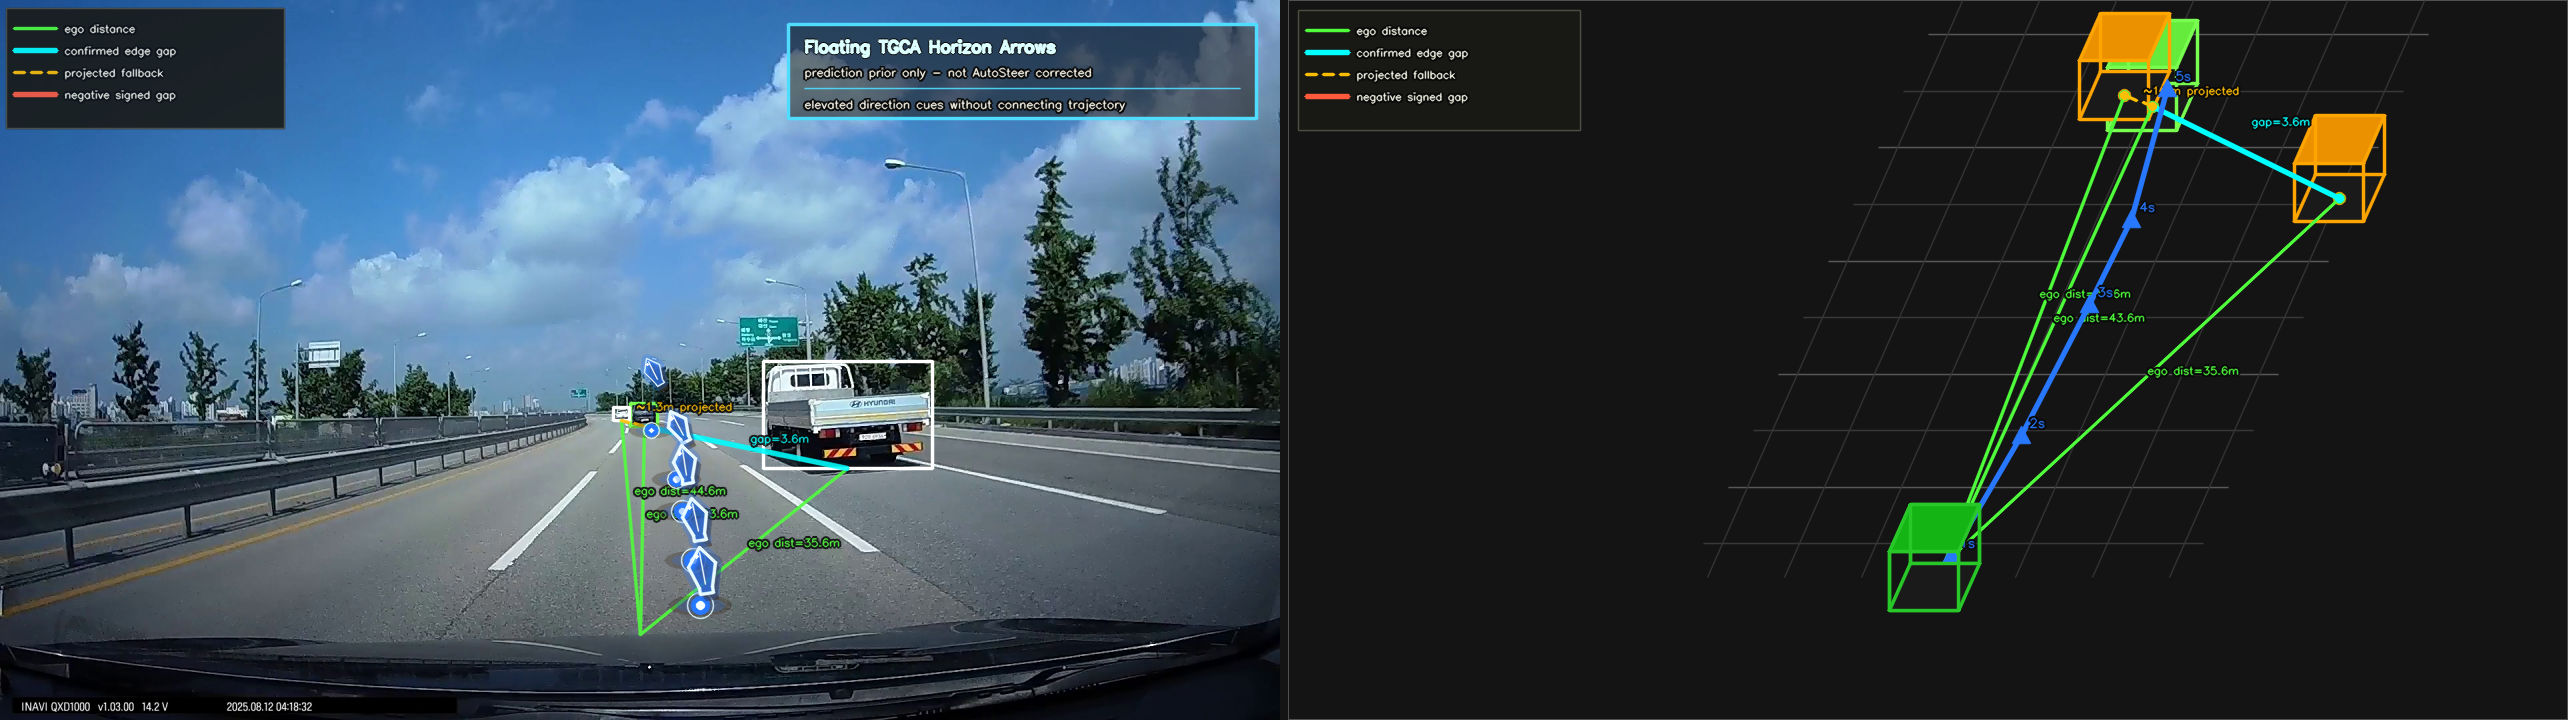
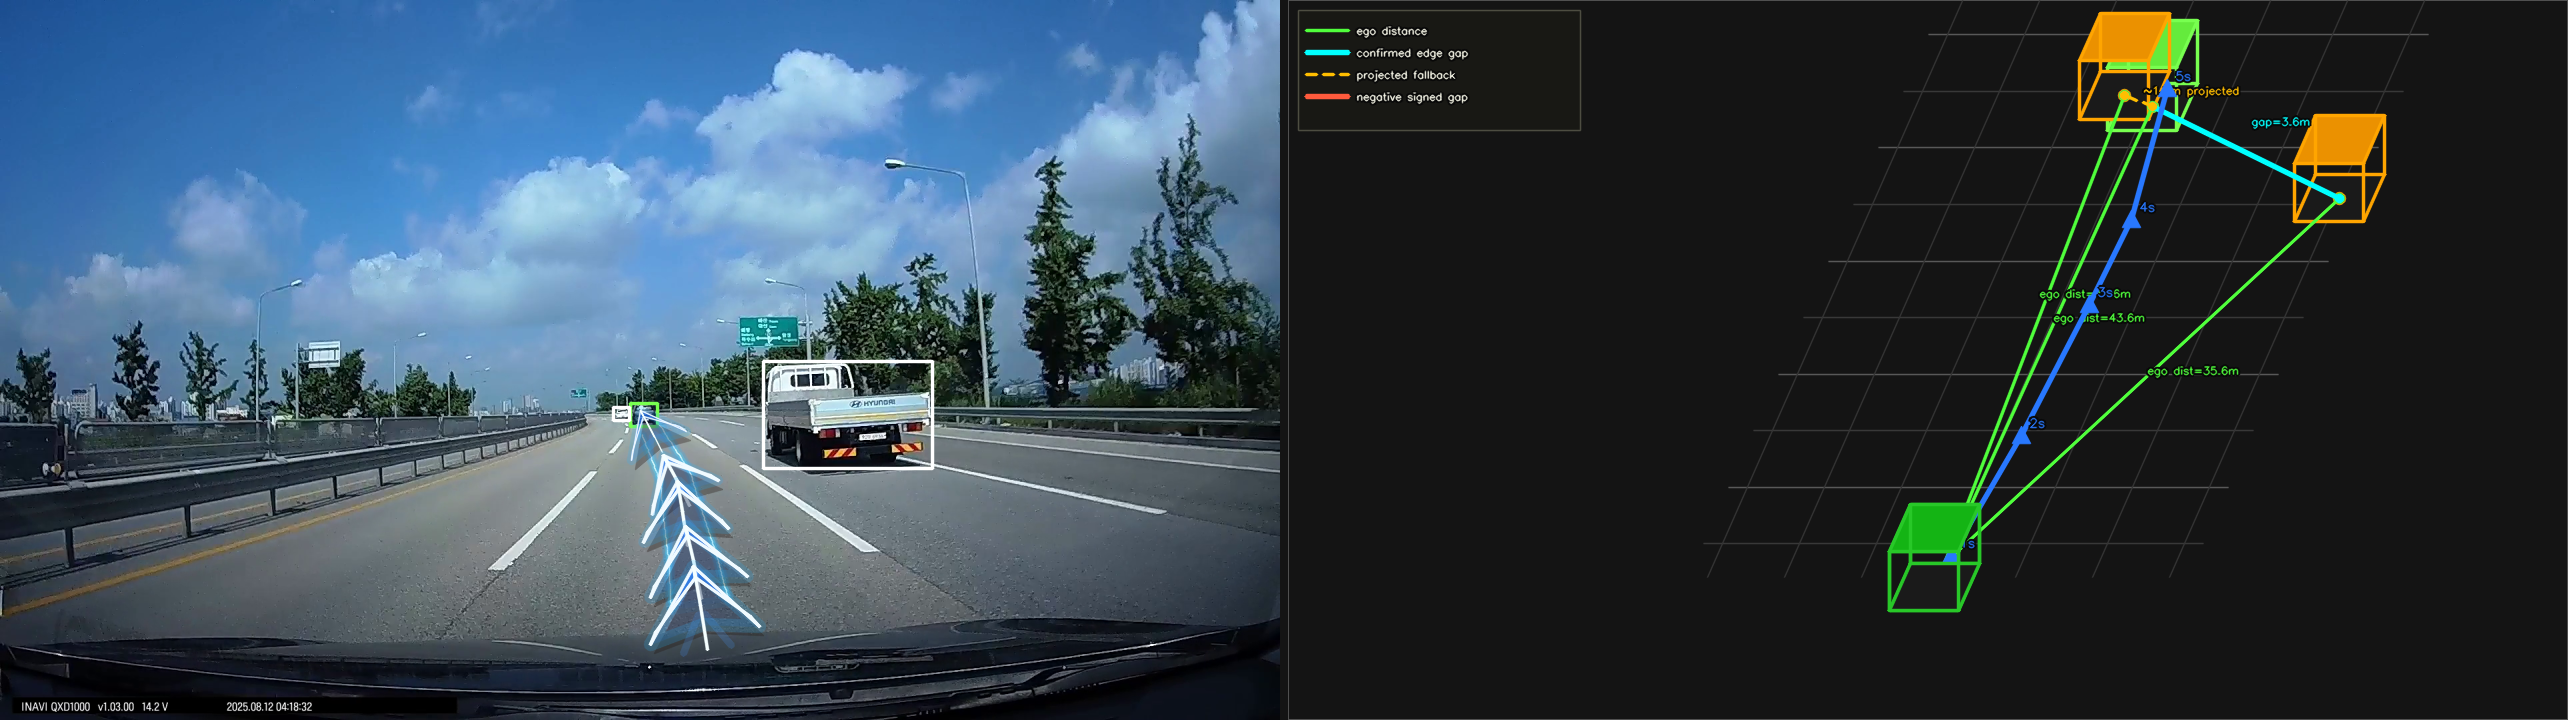
Add lane context stage and tighten demo copy

diff --git a/index.html b/index.html
@@ -12,29 +12,25 @@
       <nav class="nav" aria-label="섹션 이동">
         <a href="#stage-1">원본</a>
         <a href="#stage-2">객체 탐지</a>
-        <a href="#stage-3">Edge + 3D</a>
-        <a href="#stage-4">TGCA Path</a>
-        <a href="#stage-5">5초 Horizon</a>
+        <a href="#stage-3">Lane</a>
+        <a href="#stage-4">Edge + 3D</a>
+        <a href="#stage-5">TGCA</a>
+        <a href="#stage-6">HUD</a>
       </nav>
 
       <div class="hero-overlay">
         <div class="hero-copy">
           <h1>전방 객체 맥락에서 TGCA ego trajectory prior까지</h1>
-          <p class="lead">
-            단안 dashcam 프레임이 차량 탐지, ego distance와 bbox gap edge, pseudo-3D 맥락,
-            TGCA 기반 raw prediction trajectory와 1s-5s horizon prior로 변환되는 과정을 보여줍니다.
-          </p>
+          <p class="lead">차량 탐지, lane context, relation graph, TGCA horizon prior를 단계별로 보여줍니다.</p>
           <div class="hero-badges" aria-label="pipeline summary">
             <span>Monocular input</span>
             <span>Vehicle detection</span>
+            <span>Lane context</span>
             <span>Gap edges</span>
             <span>Pseudo-3D</span>
             <span>TGCA prior</span>
           </div>
-          <div class="claim-note">
-            시각화 수준의 결과 · ego distance/gap은 pseudo-metric 추정 · TGCA trajectory는 control command,
-            driving decision, ground-truth future가 아닌 prior
-          </div>
+          <div class="claim-note">거리와 궤적은 시각화 prior이며, 제어 명령이나 정답 label이 아닙니다.</div>
           <button
             class="hero-zoom image-button"
             type="button"
@@ -59,42 +55,42 @@
           </article>
           <article>
             <strong>Graph</strong>
-            <span>ego-to-vehicle distance / confirmed edge gap / projected fallback 구성</span>
+            <span>ego distance / confirmed edge gap / fallback distance</span>
           </article>
           <article>
-            <strong>Scene</strong>
-            <span>추정 거리와 pseudo-3D 장면 표현</span>
+            <strong>Lane</strong>
+            <span>ego lane 차량 여부와 LC 후보 판단</span>
           </article>
           <article>
             <strong>Output</strong>
-            <span>TGCA 기반 raw prediction trajectory와 1s-5s horizon prior</span>
+            <span>TGCA horizon prior와 HUD overlay</span>
           </article>
         </div>
       </section>
 
       <section class="legend-panel" aria-labelledby="legend-title">
         <p class="section-kicker">Visualization Legend</p>
-        <h2 id="legend-title">relation edge와 TGCA trajectory를 분리해서 읽기</h2>
+        <h2 id="legend-title">색상 의미 요약</h2>
         <div class="legend-grid">
           <article>
             <h3>Relation graph</h3>
             <ul class="legend compact">
-              <li><span class="swatch green"></span>Green solid: ego-to-vehicle distance</li>
-              <li><span class="swatch cyan"></span>Cyan solid: confirmed vehicle-to-vehicle edge gap</li>
-              <li><span class="swatch yellow"></span>Amber dashed: projected bottom-center fallback distance</li>
+              <li><span class="swatch green"></span>Green solid: ego distance</li>
+              <li><span class="swatch cyan"></span>Cyan solid: confirmed edge gap</li>
+              <li><span class="swatch yellow"></span>Amber dashed: projected fallback distance</li>
               <li><span class="swatch red"></span>Red: negative signed gap</li>
             </ul>
           </article>
           <article>
             <h3>Trajectory</h3>
             <ul class="legend compact">
-              <li><span class="swatch blue"></span>Blue arrow/marker: Raw TGCA prediction trajectory</li>
-              <li><span class="swatch blue"></span>1s-5s labels: prediction horizon markers</li>
+              <li><span class="swatch blue"></span>Blue marker: Raw TGCA prediction</li>
+              <li><span class="swatch blue"></span>1s-5s: prediction horizon</li>
             </ul>
           </article>
           <article>
             <h3>Caution</h3>
-            <p>Distances are pseudo-metric visualization cues. TGCA trajectory is a prior, not ground-truth future, planner output, or control command.</p>
+            <p>All distances and trajectories are priors, not GT or control.</p>
           </article>
         </div>
       </section>
@@ -103,7 +99,7 @@
         <div class="stage-copy">
           <span class="stage-number">01</span>
           <h2>원본 이미지</h2>
-          <p>perception 또는 graph 구성이 적용되기 전의 단안 dashcam 입력 장면입니다.</p>
+          <p>bbox, edge, trajectory가 없는 입력 frame입니다.</p>
         </div>
         <figure class="visual-card">
           <button
@@ -120,15 +116,15 @@
               height="720"
             />
           </button>
-          <figcaption>전방 단안 dashcam 입력 프레임입니다.</figcaption>
+          <figcaption>Raw dashcam frame.</figcaption>
         </figure>
       </section>
 
       <section class="stage" id="stage-2" data-stage="02">
         <div class="stage-copy">
           <span class="stage-number">02</span>
-          <h2>탐지된 객체 bbox</h2>
-          <p>전방 차량 후보를 bounding box로 표시합니다. 초록색 bbox는 ego 기준 lead vehicle, 흰색 bbox는 일반 detected vehicle을 의미합니다.</p>
+          <h2>객체 bbox</h2>
+          <p>초록 bbox는 lead vehicle, 흰 bbox는 일반 vehicle입니다.</p>
         </div>
         <figure class="visual-card">
           <button
@@ -146,21 +142,52 @@
               height="720"
             />
           </button>
-          <figcaption>초록색 bbox는 lead vehicle, 흰색 bbox는 일반 detected vehicle 후보를 나타냅니다.</figcaption>
+          <figcaption>Detected vehicle boxes.</figcaption>
         </figure>
       </section>
 
       <section class="stage" id="stage-3" data-stage="03">
         <div class="stage-copy">
           <span class="stage-number">03</span>
-          <h2>bbox + edge graph + pseudo-3D 장면</h2>
-          <p>ego-to-vehicle distance와 vehicle-to-vehicle relation을 2D dashcam frame과 pseudo-3D context에서 함께 시각화합니다.</p>
+          <h2>ego lane</h2>
+          <p>ego-lane 차량/LC 후보를 temporal KG에 보냅니다.</p>
           <ul class="legend">
-            <li><span class="swatch green"></span>초록색 실선: ego-to-vehicle distance</li>
-            <li><span class="swatch cyan"></span>하늘색/청록색 실선: confirmed vehicle-to-vehicle edge gap</li>
-            <li><span class="swatch yellow"></span>노랑/주황색 점선: projected bottom-center fallback distance</li>
-            <li><span class="swatch red"></span>빨간색 계열: negative signed gap</li>
-            <li><span class="swatch dark"></span>오른쪽 패널: calibrated 3D reconstruction이 아닌 pseudo-3D relation context</li>
+            <li><span class="swatch cyan"></span>청록 실선: ego lane boundary</li>
+            <li><span class="swatch cyan"></span>청록 mask: ego lane area</li>
+            <li>KG cue: in_ego_lane / LC_into_ego_lane</li>
+          </ul>
+        </div>
+        <figure class="visual-card">
+          <button
+            class="image-button"
+            type="button"
+            data-image="./assets/06_lane_detection_example.png"
+            data-title="Ego lane detection"
+            aria-label="Ego lane detection 이미지 확대 보기"
+          >
+            <img
+              src="./assets/06_lane_detection_example.png"
+              alt="ego lane boundary와 ego lane mask가 표시된 lane detection 시각화"
+              loading="lazy"
+              width="1280"
+              height="720"
+            />
+          </button>
+          <figcaption>Lane context feeds the temporal ontology KG.</figcaption>
+        </figure>
+      </section>
+
+      <section class="stage" id="stage-4" data-stage="04">
+        <div class="stage-copy">
+          <span class="stage-number">04</span>
+          <h2>edge + pseudo-3D</h2>
+          <p>relation edge를 2D와 pseudo-3D로 봅니다.</p>
+          <ul class="legend">
+            <li><span class="swatch green"></span>초록: ego distance</li>
+            <li><span class="swatch cyan"></span>청록: confirmed edge gap</li>
+            <li><span class="swatch yellow"></span>노랑 점선: fallback distance</li>
+            <li><span class="swatch red"></span>빨강: negative gap</li>
+            <li><span class="swatch dark"></span>오른쪽: pseudo-3D context</li>
           </ul>
         </div>
         <figure class="visual-card">
@@ -168,67 +195,33 @@
             class="image-button"
             type="button"
             data-image="./assets/03_bbox_edges_and_3d.png"
-            data-title="bbox, relation edge graph, pseudo-3D relation context"
-            aria-label="bbox, relation edge graph, pseudo-3D relation context 이미지 확대 보기"
+            data-title="bbox, edge graph, pseudo-3D context"
+            aria-label="bbox, edge graph, pseudo-3D context 이미지 확대 보기"
           >
             <img
               src="./assets/03_bbox_edges_and_3d.png"
-              alt="bbox, ego-to-vehicle distance, confirmed edge gap, projected fallback distance, pseudo-3D relation context가 함께 표시된 시각화"
+              alt="bbox, edge gap, fallback distance, pseudo-3D context 시각화"
               loading="lazy"
               width="2568"
               height="720"
             />
           </button>
-          <figcaption>confirmed edge gap과 projected fallback distance를 구분해 표시합니다. 오른쪽 패널은 graph relation 이해를 위한 pseudo-3D context입니다.</figcaption>
+          <figcaption>Edge colors describe relation cues.</figcaption>
         </figure>
       </section>
 
-      <section class="stage" id="stage-4" data-stage="04">
+      <section class="stage" id="stage-5" data-stage="05">
         <div class="stage-copy">
-          <span class="stage-number">04</span>
-          <h2>TGCA 기반 궤적 prior</h2>
-          <p>TGCA 기반 temporal interaction modeling으로 추정한 raw ego trajectory prior를 기존 relation graph 위에 겹쳐 보여줍니다.</p>
+          <span class="stage-number">05</span>
+          <h2>TGCA 기본 horizon</h2>
+          <p>05 이미지는 1s-5s Raw TGCA horizon prior입니다.</p>
           <ul class="legend">
-            <li><span class="swatch blue"></span>파란색 화살표/마커: Raw TGCA prediction trajectory</li>
-            <li><span class="swatch green"></span>초록색/하늘색/노랑 edge: relation graph context</li>
-            <li>이 trajectory는 control command, planner output, ground-truth future가 아니라 시각화 수준의 trajectory prior입니다.</li>
+            <li><span class="swatch blue"></span>파랑: Raw TGCA horizon</li>
+            <li>1s-5s: prediction step</li>
+            <li>정답/제어가 아닌 prior</li>
           </ul>
         </div>
         <figure class="visual-card">
-          <button
-            class="image-button"
-            type="button"
-            data-image="./assets/04_bbox_edges_predicted_ego_trajectory_and_3d.png"
-            data-title="Raw TGCA prediction trajectory over relation graph context"
-            aria-label="Raw TGCA prediction trajectory over relation graph context 이미지 확대 보기"
-          >
-            <img
-              src="./assets/04_bbox_edges_predicted_ego_trajectory_and_3d.png"
-              alt="relation graph context 위에 파란 Raw TGCA prediction trajectory가 겹쳐진 2D 및 pseudo-3D 시각화"
-              loading="lazy"
-              width="2568"
-              height="720"
-            />
-          </button>
-          <figcaption>파란 화살표/마커는 Raw TGCA prediction trajectory입니다. relation edge 색상과 trajectory 색상은 서로 다른 의미입니다.</figcaption>
-        </figure>
-      </section>
-
-      <section class="stage final" id="stage-5" data-stage="05">
-        <div class="stage-copy">
-          <span class="stage-number">05</span>
-          <h2>1초부터 5초까지 ego trajectory horizon</h2>
-          <p>TGCA 기반 ego trajectory prior를 1초 간격 horizon marker로 시각화합니다.</p>
-          <ul class="legend">
-            <li><span class="swatch blue"></span>파란색 화살표/마커: Raw TGCA prediction horizon</li>
-            <li>1s-5s label: prediction horizon step</li>
-            <li>각 horizon point는 미래 주행 경향을 설명하기 위한 prior이며 validated future label이 아닙니다.</li>
-          </ul>
-          <div class="time-strip" aria-label="horizon label">
-            <span>1s</span><span>2s</span><span>3s</span><span>4s</span><span>5s</span>
-          </div>
-        </div>
-        <figure class="visual-card featured">
           <button
             class="image-button"
             type="button"
@@ -238,24 +231,54 @@
           >
             <img
               src="./assets/05_ego_trajectory_1s_to_5s_horizon.png"
-              alt="파란 Raw TGCA prediction horizon과 1s-5s prediction horizon step label이 표시된 시각화"
+              alt="파란 Raw TGCA prediction horizon과 1s-5s label 시각화"
               loading="lazy"
               width="2568"
               height="720"
             />
           </button>
-          <figcaption>1s-5s marker는 TGCA 기반 ego trajectory horizon prior입니다. validated future label이 아닙니다.</figcaption>
+          <figcaption>Basic TGCA horizon.</figcaption>
+        </figure>
+      </section>
+
+      <section class="stage final" id="stage-6" data-stage="06">
+        <div class="stage-copy">
+          <span class="stage-number">06</span>
+          <h2>TGCA HUD</h2>
+          <p>05-1 HUD overlay로 horizon을 강조합니다.</p>
+          <ul class="legend">
+            <li><span class="swatch blue"></span>파랑: Raw TGCA horizon</li>
+            <li>HUD: marker 가독성 강조</li>
+            <li>validated future label이 아닌 prior</li>
+          </ul>
+          <div class="time-strip" aria-label="horizon label">
+            <span>1s</span><span>2s</span><span>3s</span><span>4s</span><span>5s</span>
+          </div>
+        </div>
+        <figure class="visual-card featured">
+          <button
+            class="image-button"
+            type="button"
+            data-image="./assets/05-1_ego_trajectory_1s_to_5s_horizon_hud.png"
+            data-title="HUD-enhanced TGCA ego trajectory horizon"
+            aria-label="HUD-enhanced TGCA ego trajectory horizon 이미지 확대 보기"
+          >
+            <img
+              src="./assets/05-1_ego_trajectory_1s_to_5s_horizon_hud.png"
+              alt="HUD 스타일로 강조된 파란 Raw TGCA prediction horizon 시각화"
+              loading="lazy"
+              width="2568"
+              height="720"
+            />
+          </button>
+          <figcaption>HUD-emphasized TGCA horizon.</figcaption>
         </figure>
       </section>
 
       <section class="takeaway" aria-labelledby="takeaway-title">
         <p class="section-kicker">Takeaway</p>
         <h2 id="takeaway-title">전방 객체 맥락에서 해석 가능한 ego trajectory prior로</h2>
-        <p>
-          이 페이지는 시각화 수준의 연구 결과를 보여줍니다. 탐지된 차량 맥락을 ego distance와 bbox gap relation으로 구성하고,
-          pseudo-3D relation context로 투영한 뒤, TGCA 기반 Raw prediction trajectory와 1s-5s horizon prior를 표시합니다.
-          이 결과는 validated future label, planner output, autonomous-driving control signal이 아니라 해석 가능한 trajectory prior로 읽어야 합니다.
-        </p>
+        <p>bbox, lane context, relation edge, TGCA horizon을 temporal ontology KG cue로 연결합니다. 결과는 prior이며 정답/제어가 아닙니다.</p>
       </section>
     </main>
 

diff --git a/app.js b/app.js
@@ -46,6 +46,33 @@ document.addEventListener("keydown", (event) => {
 
 const stages = [...document.querySelectorAll(".stage")];
 const navLinks = [...document.querySelectorAll(".nav a")];
+const singleLineTexts = [...document.querySelectorAll("main h2, .stage-copy > p")];
+
+function getTextWidth(element) {
+  const range = document.createRange();
+  range.selectNodeContents(element);
+  const width = range.getBoundingClientRect().width;
+  range.detach?.();
+  return width;
+}
+
+function fitSingleLineTexts() {
+  const viewportWidth = document.documentElement.clientWidth;
+
+  singleLineTexts.forEach((heading) => {
+    heading.style.fontSize = "";
+
+    const parentWidth = heading.parentElement?.getBoundingClientRect().width ?? viewportWidth;
+    const availableWidth = Math.max(160, Math.min(parentWidth, viewportWidth));
+    let size = parseFloat(getComputedStyle(heading).fontSize);
+    const minSize = heading.tagName === "H2" ? 13 : 11;
+
+    while (getTextWidth(heading) > availableWidth + 1 && size > minSize) {
+      size = Math.max(minSize, size - 1);
+      heading.style.fontSize = `${size}px`;
+    }
+  });
+}
 
 const observer = new IntersectionObserver(
   (entries) => {
@@ -62,3 +89,6 @@ const observer = new IntersectionObserver(
 );
 
 stages.forEach((stage) => observer.observe(stage));
+
+fitSingleLineTexts();
+window.addEventListener("resize", fitSingleLineTexts);

diff --git a/styles.css b/styles.css
@@ -141,6 +141,18 @@ h2 {
   font-size: clamp(2rem, 4vw, 4.6rem);
 }
 
+main h2 {
+  white-space: nowrap;
+  overflow-wrap: normal;
+  word-break: keep-all;
+}
+
+.stage-copy > p {
+  white-space: nowrap;
+  overflow-wrap: normal;
+  word-break: keep-all;
+}
+
 .lead,
 .stage-copy p,
 .takeaway p {
